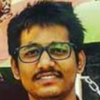
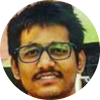
f
ff

diff --git a/index.html b/index.html
@@ -268,7 +268,10 @@
     </div>
   <div class="review-main" style="padding-top: 2em;">
     <div class="review-card">
-      <div class="review-image1"></div>
+      <div class="review-image">
+        <img class="img-fluid" src="./Assets/img/placements/aman.png">
+      </div>
+      <!-- <div class="review-image1"></div> -->
       <div class="review-text">
           <h5>AMAN RASTOGI</h5>
           <p>Compositor/ Animator -</p>
@@ -278,7 +281,9 @@
       </div>
     </div>
     <div class="review-card second-card">
-      <div class="review-image2"></div>
+      <div class="review-image">
+        <img class="img-fluid" src="./Assets/img/placements/rohit.png">
+      </div>
       <div class="review-text">
         <h5>ROHIT KRISHNANI</h5>
         <p>Creative Head -</p>
@@ -287,7 +292,9 @@
       </div>
     </div>
     <div class="review-card">
-      <div class="review-image3"></div>
+      <div class="review-image">
+        <img class="img-fluid" src="./Assets/img/placements/akash.png">
+      </div>
       <div class="review-text">
         <h5>AKASH JADAV</h5>
         <p>Motion Graphics Designer -</p>

diff --git a/Assets/css/style.css b/Assets/css/style.css
@@ -436,6 +436,10 @@ html{
     display: flex;
     align-items: center;
 }
+.review-image{
+    margin-left: 50px;
+    border-radius: 50%;
+}
 .review-image1{
     width: 100px;
     aspect-ratio: 1;
@@ -910,6 +914,10 @@ footer span a:hover{
     }
     .courses{
         width:100%;
+    }
+    .review-card{
+        flex-direction: column;
+
     }
     .review-section{
     margin-top: 675%;
